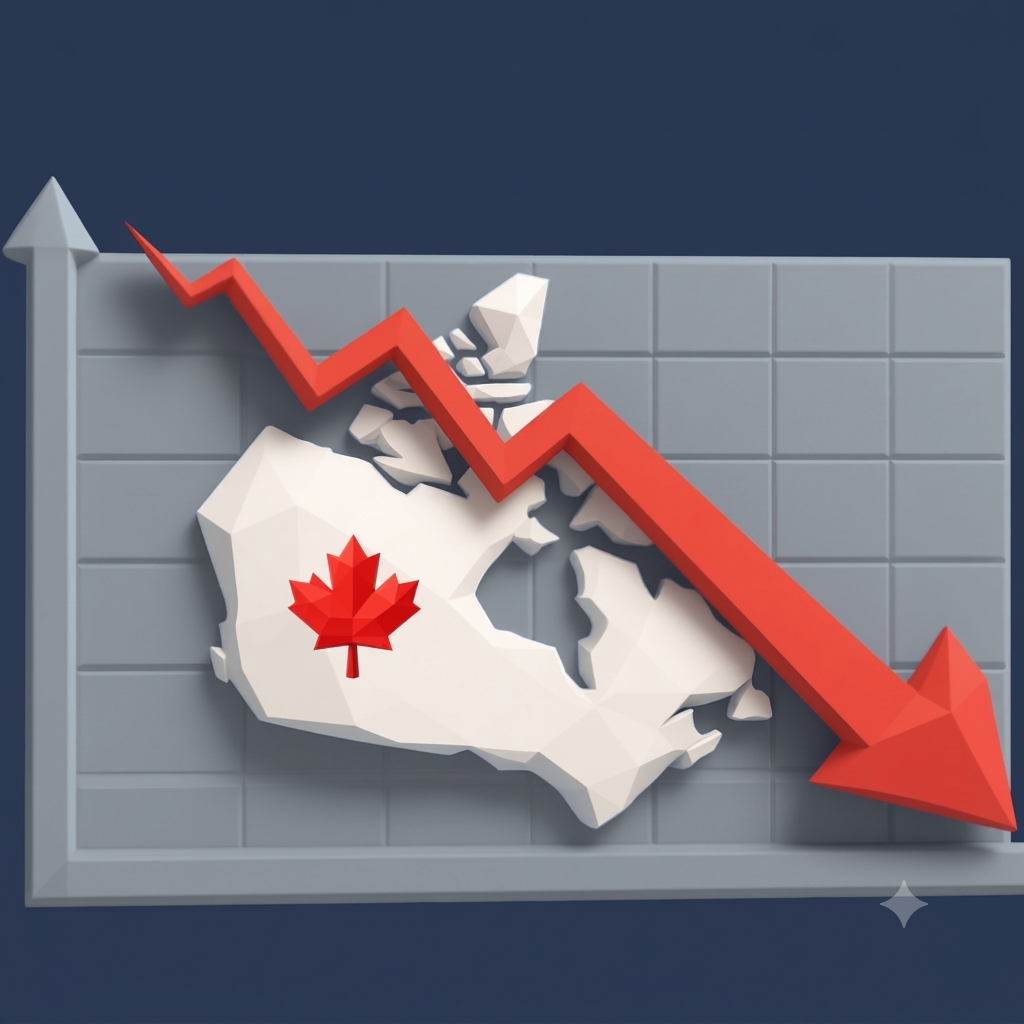
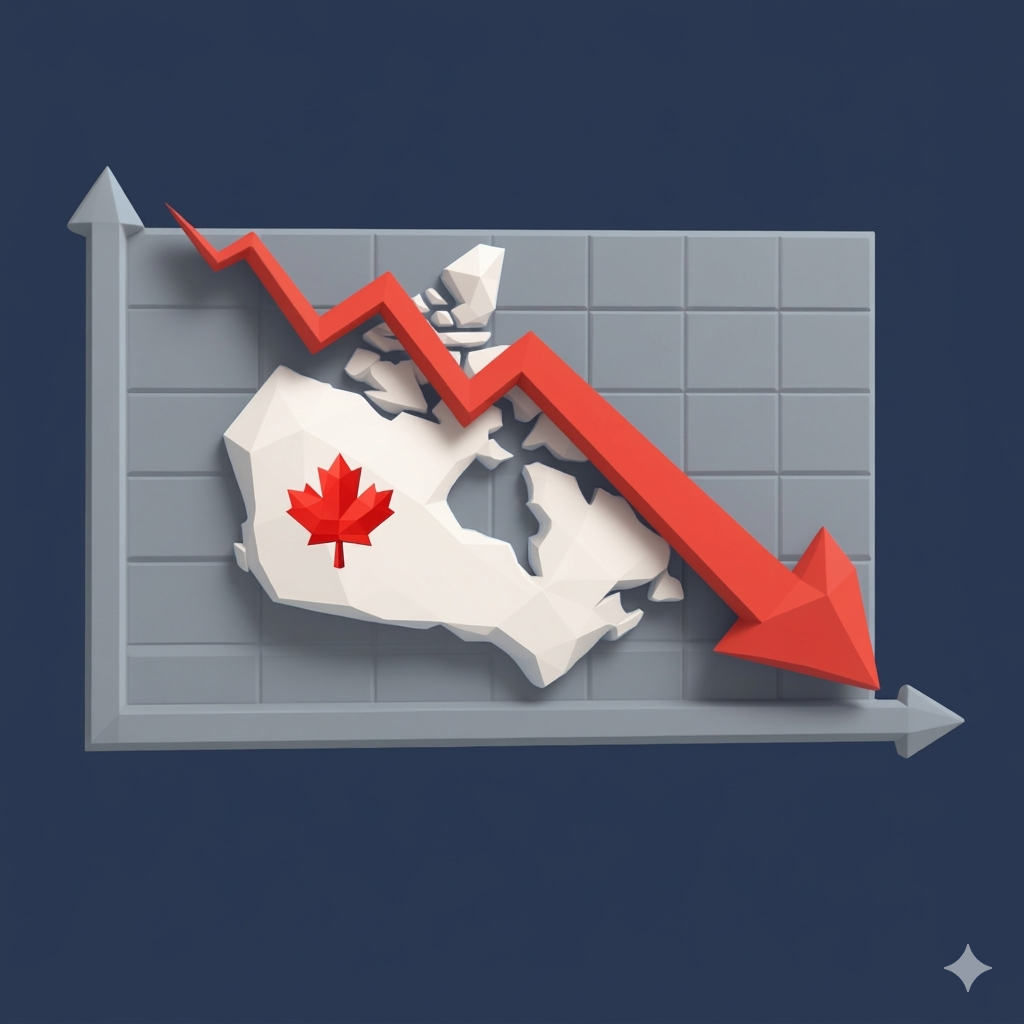
Rename Canada article to "Canada's Lost Decade"; update cover image; fix square cover centering

diff --git a/src/app/articles/[slug]/page.tsx b/src/app/articles/[slug]/page.tsx
@@ -63,10 +63,10 @@ const mdComponents: React.ComponentProps<typeof ReactMarkdown>["components"] = {
   img({ src, alt }) {
     if (!src) return null;
     return (
-      <figure className="not-prose my-8">
-        <div className="relative w-full rounded-xl overflow-hidden">
+      <figure className="not-prose my-8 flex flex-col items-center">
+        <div className="w-full max-w-2xl rounded-xl overflow-hidden">
           {/* eslint-disable-next-line @next/next/no-img-element */}
-          <img src={src} alt={alt ?? ""} className="w-full h-auto block" />
+          <img src={src} alt={alt ?? ""} className="w-full h-auto block mx-auto" />
         </div>
         {alt && (
           <figcaption className="text-xs text-ink-400 text-center mt-1.5 italic">
@@ -121,6 +121,11 @@ export default function ArticlePage({ params }: { params: { slug: string } }) {
 
   const segments = parseSegments(article.content);
 
+  // Detect if cover image is square/portrait (not a wide cinematic shot)
+  // Square images get centered with max-width; wide images stay full-width
+  const isSquareCover = article.coverImage?.includes("canada-decline") ||
+    article.coverSquare === true;
+
   return (
     <article className="bg-transparent">
       {/* ── Header ── */}
@@ -171,19 +176,36 @@ export default function ArticlePage({ params }: { params: { slug: string } }) {
 
       {/* ── Cover image ── */}
       {article.coverImage && (
-        <div className="max-w-6xl mx-auto px-6 mb-12 overflow-hidden rounded-2xl">
-          {/* eslint-disable-next-line @next/next/no-img-element */}
-          <img
-            src={article.coverImage}
-            alt={article.title}
-            className="w-full object-cover"
-            style={{
-              aspectRatio: "16/9",
-              objectPosition: article.coverPosition ?? "center center",
-              transform: article.coverScale ? `scale(${article.coverScale})` : undefined,
-              transformOrigin: article.coverPosition ?? "center center",
-            }}
-          />
+        <div className="max-w-6xl mx-auto px-6 mb-12">
+          {isSquareCover ? (
+            /* Square/portrait images: centered, constrained, not stretched */
+            <div className="flex justify-center">
+              <div className="w-full max-w-lg rounded-2xl overflow-hidden">
+                {/* eslint-disable-next-line @next/next/no-img-element */}
+                <img
+                  src={article.coverImage}
+                  alt={article.title}
+                  className="w-full h-auto block"
+                />
+              </div>
+            </div>
+          ) : (
+            /* Wide/cinematic images: full-width 16:9 */
+            <div className="rounded-2xl overflow-hidden">
+              {/* eslint-disable-next-line @next/next/no-img-element */}
+              <img
+                src={article.coverImage}
+                alt={article.title}
+                className="w-full object-cover"
+                style={{
+                  aspectRatio: "16/9",
+                  objectPosition: article.coverPosition ?? "center center",
+                  transform: article.coverScale ? `scale(${article.coverScale})` : undefined,
+                  transformOrigin: article.coverPosition ?? "center center",
+                }}
+              />
+            </div>
+          )}
         </div>
       )}
 

diff --git a/src/content/articles/canada-innovation.md b/src/content/articles/canada-innovation.md
@@ -1,5 +1,5 @@
 ---
-title: "Canada: Driving out Prosperity"
+title: "Canada's Lost Decade"
 date: "2026-03-15"
 byline: "Perspective"
 author: "Brian L."